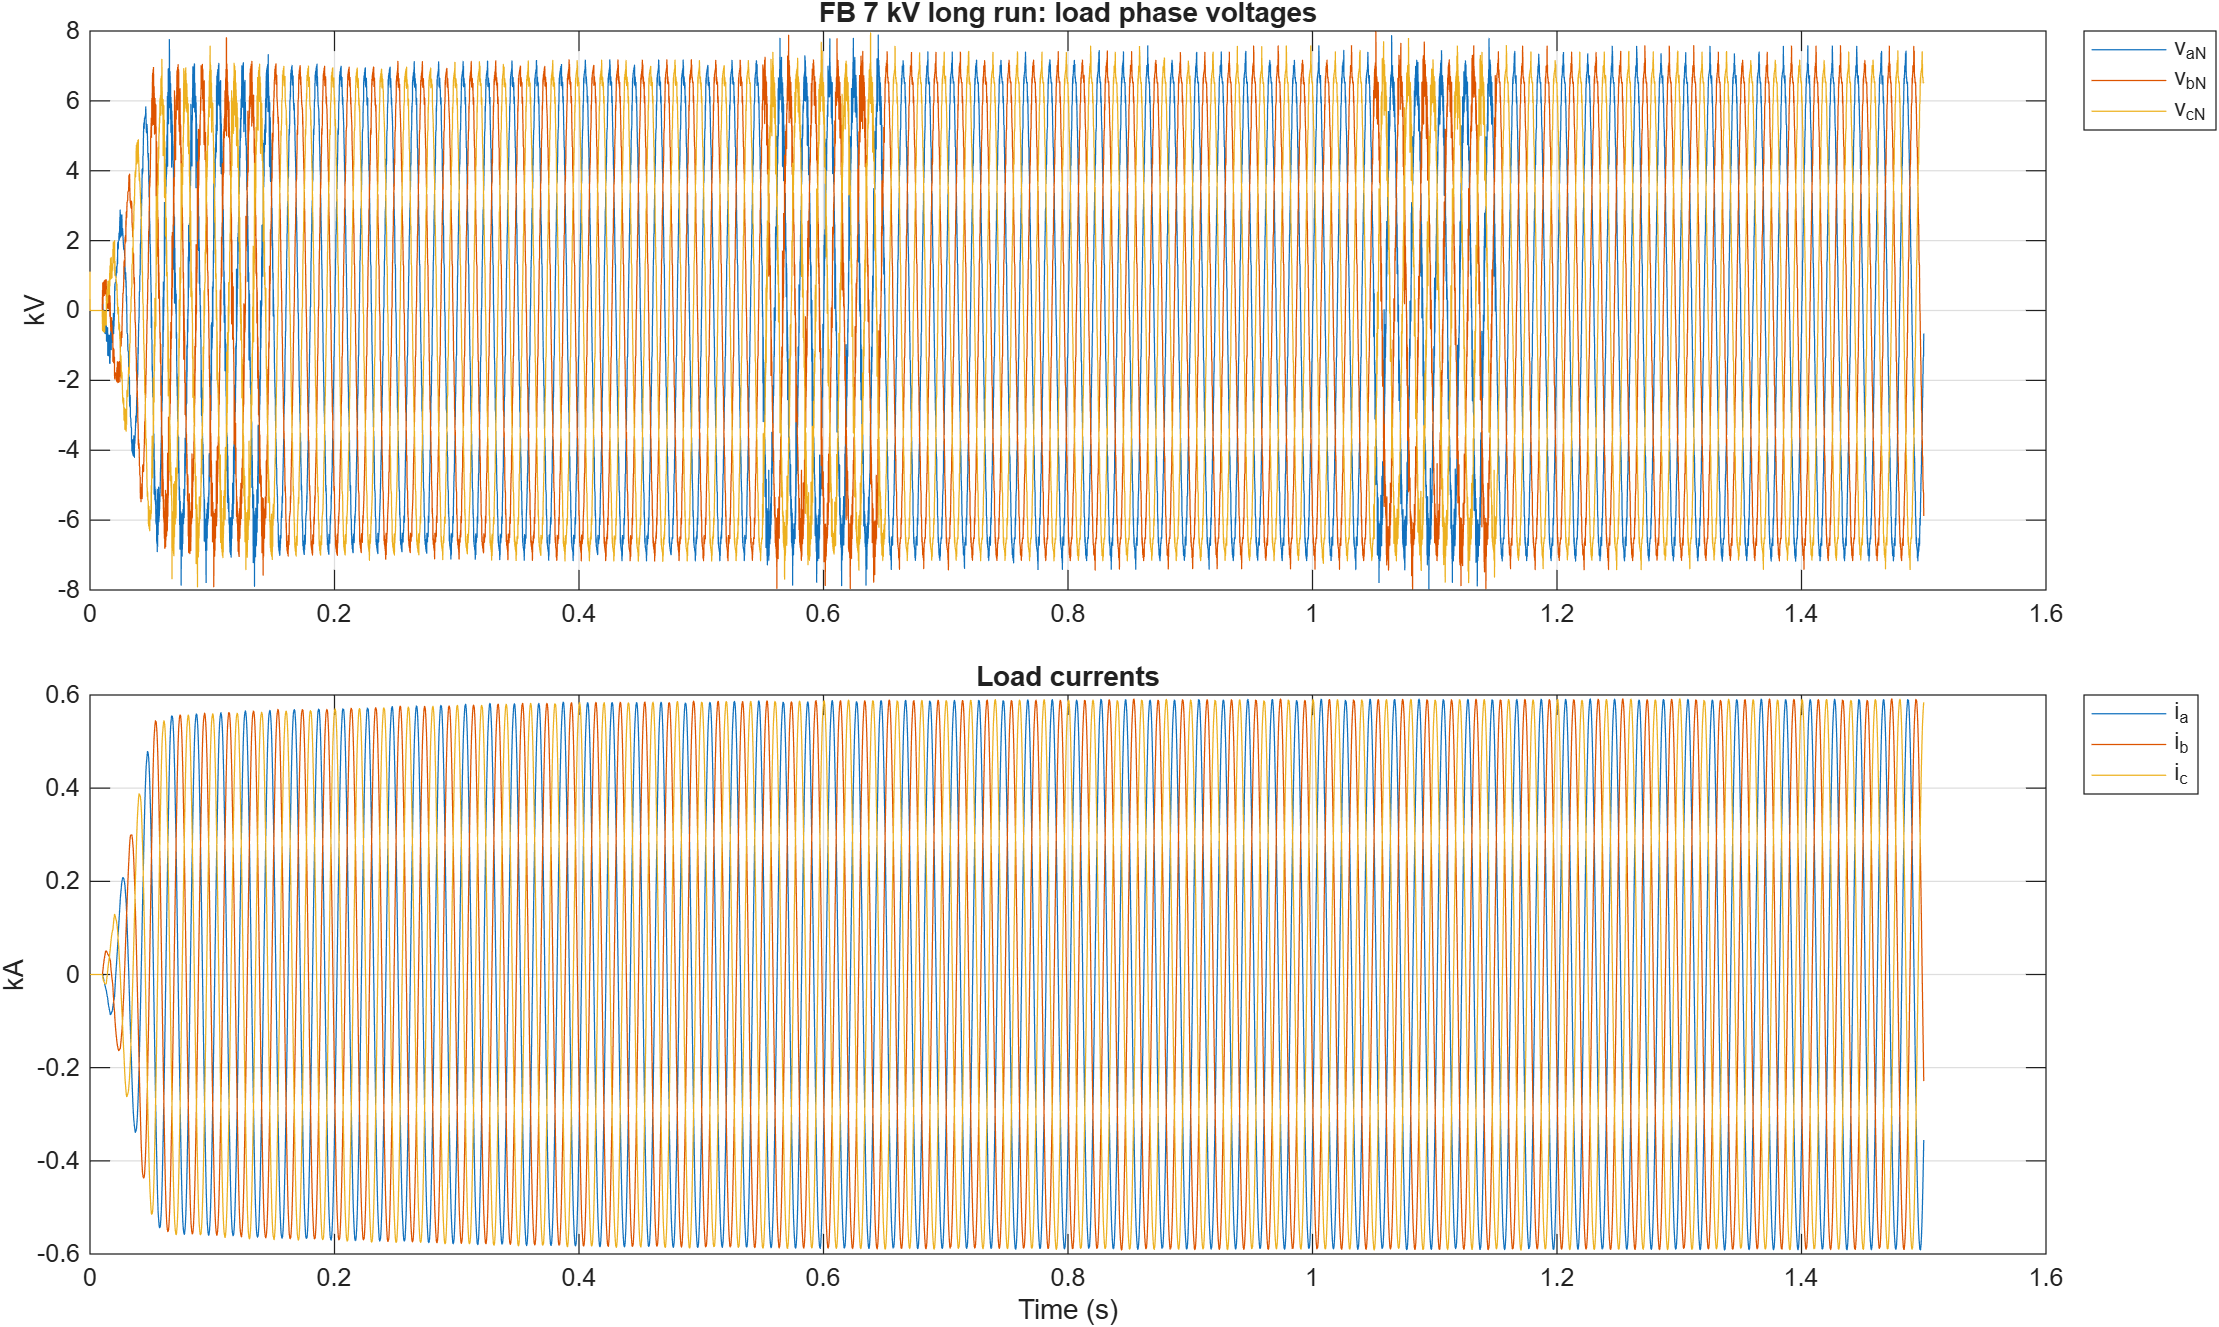
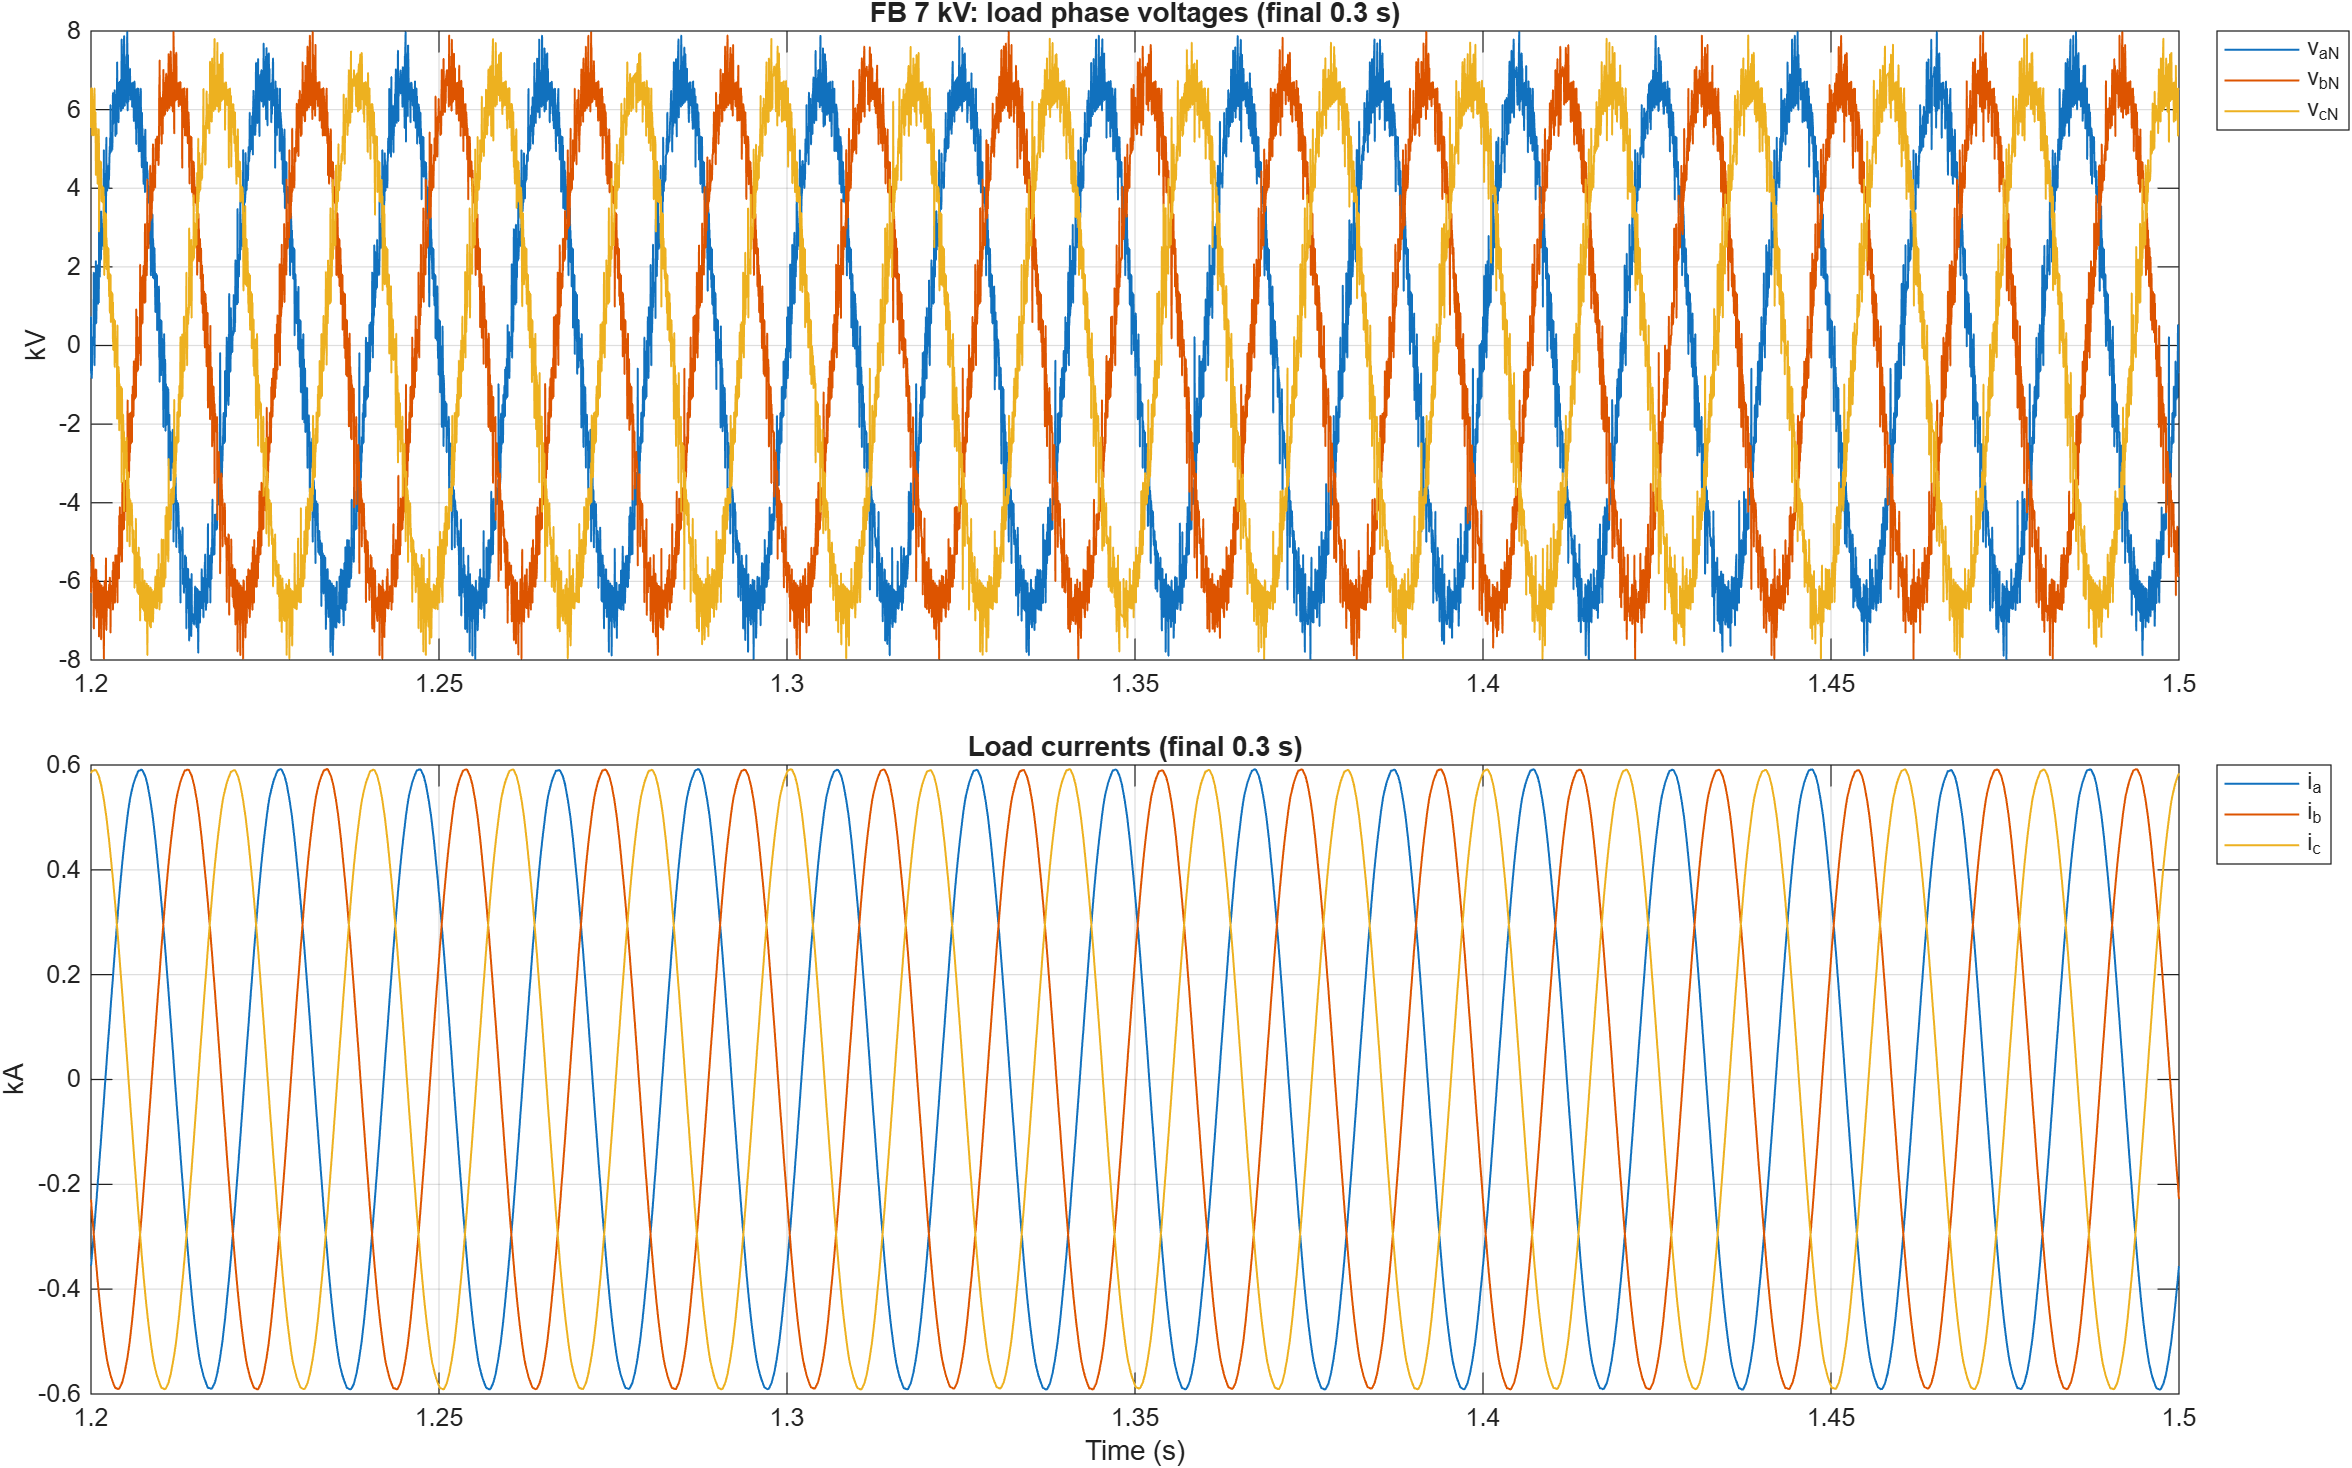
Improve README rendering and figures

diff --git a/scripts/analyze_mmc_scaled.m b/scripts/analyze_mmc_scaled.m
@@ -299,12 +299,18 @@ end
 
 function makeCapabilityDiagnostic(projectRoot,Vdc,VarmHB,VarmFB)
 requiredPositiveArm = Vdc/2+7e3;
-figure('Color','w','Position',[100 100 900 520]);
-values = [VarmHB,VarmFB,requiredPositiveArm]/1e3;
-bar(categorical({'FB at 1 kV/cell','FB at 1.5 kV/cell','7 kV required'}),values);
-ylabel('Positive arm capability (kV)'); grid on;
-title('Full-bridge topology still requires sufficient installed arm voltage');
-text(1:3,values+0.3,compose('%.1f kV',values),'HorizontalAlignment','center');
+figure('Color','w','Position',[100 100 1100 650]);
+values = [VarmHB,VarmFB]/1e3;
+bars = bar(1:2,values,0.62,'FaceColor','flat');
+bars.CData = [0.85 0.33 0.10;0.47 0.67 0.19];
+xticks(1:2); xticklabels({'10 cells at 1.0 kV/cell','10 cells at 1.5 kV/cell'});
+ylabel('Available positive arm voltage (kV)'); grid on; ylim([0 17]);
+yline(requiredPositiveArm/1e3,'--k','+12 kV required', ...
+    'LineWidth',1.5,'LabelHorizontalAlignment','left');
+title('Installed positive arm-voltage requirement for 7 kV phase-voltage operation');
+subtitle('Vdc = 10 kV; required arm-reference range is -2 kV to +12 kV');
+text(1:2,values+0.35,compose('%.1f kV',values), ...
+    'HorizontalAlignment','center','FontWeight','bold');
 exportgraphics(gcf,fullfile(projectRoot,'figures', ...
     'fb_installed_voltage_diagnostic.png'),'Resolution',180); close(gcf);
 end

diff --git a/scripts/analyze_fb_7kV_long.m b/scripts/analyze_fb_7kV_long.m
@@ -85,11 +85,11 @@ tp = fullTime(plotIndex);
 
 figure('Color','w','Position',[100 100 1300 800]);
 tiledlayout(2,1,'TileSpacing','compact');
-nexttile; plot(tp,data.v_phase_actual.data(plotIndex,:)/1e3); grid on;
-ylabel('kV'); title('FB 7 kV long run: load phase voltages');
+nexttile; plot(t,v/1e3,'LineWidth',0.8); grid on; xlim([1.2 1.5]);
+ylabel('kV'); title('FB 7 kV: load phase voltages (final 0.3 s)');
 legend('v_{aN}','v_{bN}','v_{cN}','Location','bestoutside');
-nexttile; plot(tp,data.i_load.data(plotIndex,:)/1e3); grid on;
-xlabel('Time (s)'); ylabel('kA'); title('Load currents');
+nexttile; plot(t,i/1e3,'LineWidth',0.8); grid on; xlim([1.2 1.5]);
+xlabel('Time (s)'); ylabel('kA'); title('Load currents (final 0.3 s)');
 legend('i_a','i_b','i_c','Location','bestoutside');
 exportgraphics(gcf,fullfile(project_root,'figures', ...
     'fb_7kV_long_output_voltage_current.png'),'Resolution',180); close(gcf);

diff --git a/README.md b/README.md
@@ -11,16 +11,13 @@ negative submodule insertion determine the maximum achievable AC phase voltage?
 
 For one phase leg,
 
-\[
-v_{phase}=\frac{v_{lower}-v_{upper}}{2},
-\]
+`v_phase = (v_lower - v_upper) / 2`
 
 with arm references
 
-\[
-v_{upper,ref}=\frac{V_{dc}}{2}-v_{phase,ref},\qquad
-v_{lower,ref}=\frac{V_{dc}}{2}+v_{phase,ref}.
-\]
+`v_upper_ref = Vdc/2 - v_phase_ref`
+
+`v_lower_ref = Vdc/2 + v_phase_ref`
 
 The models contain explicit switching IGBTs and antiparallel diodes, individual
 submodule capacitors, arm reactors, nearest-level modulation (NLM), and
@@ -30,7 +27,7 @@ source is used to create the reported output.
 ## System parameters
 
 | Parameter | HB-MMC | FB-MMC |
-|---|---:|---:|
+| --- | ---: | ---: |
 | DC link | 10 kV | 10 kV |
 | Submodules per arm | 10 | 10 |
 | Capacitor reference | 1.0 kV | 1.5 kV |
@@ -44,9 +41,7 @@ source is used to create the reported output.
 An HB submodule produces only 0 or +Vc. Both arm references must remain
 nonnegative, giving the conventional limit
 
-\[
-|v_{phase}|\lesssim V_{dc}/2.
-\]
+`|v_phase| <= Vdc/2`
 
 For this 10 kV DC link, the HB command is therefore limited to +/-5 kV. The
 7 kV command is visibly clipped and cannot be tracked as a sinusoidal 7 kV
@@ -54,10 +49,9 @@ phase voltage.
 
 An FB submodule produces +Vc, 0, or -Vc. At a 7 kV phase-voltage peak,
 
-\[
-v_{upper,ref}=5-7=-2\text{ kV},\qquad
-v_{lower,ref}=5+7=12\text{ kV}.
-\]
+`v_upper_ref = 5 - 7 = -2 kV`
+
+`v_lower_ref = 5 + 7 = 12 kV`
 
 The FB converter therefore needs both negative insertion capability and enough
 installed positive arm voltage. Ten 1 kV cells would provide only 10 kV and
@@ -66,21 +60,15 @@ would still be insufficient. Ten 1.5 kV cells provide +/-15 kV, making the
 
 Inserted counts follow the same distinction. For HB,
 
-\[
-k_{upper}+k_{lower}\approx N=10.
-\]
+`k_upper + k_lower ~= N = 10`
 
 For FB, counts are signed and approximately satisfy
 
-\[
-(k_{upper}+k_{lower})V_{c,FB}\approx V_{dc},
-\]
+`(k_upper + k_lower) * Vc_FB ~= Vdc`
 
 so
 
-\[
-k_{upper}+k_{lower}\approx 10/1.5=6.67.
-\]
+`k_upper + k_lower ~= 10 / 1.5 = 6.67`
 
 The absolute FB counts do not need to sum to N.
 
@@ -97,9 +85,16 @@ Detailed numerical results are kept in the text and CSV files under `results/`.
 
 ## Important figures
 
-### Installed arm-voltage requirement
+### Installed positive arm-voltage requirement for 7 kV phase-voltage operation
 
 ![Installed arm-voltage diagnostic](figures/fb_installed_voltage_diagnostic.png)
+
+To produce a 7 kV phase-voltage peak with a 10 kV DC link, the lower arm must
+reach about +12 kV while the upper arm must reach about -2 kV. Negative
+insertion alone is therefore not sufficient: the FB converter also needs
+enough installed positive arm voltage. Ten cells at 1.0 kV/cell provide only
+10 kV and cannot meet the +12 kV requirement. Ten cells at 1.5 kV/cell provide
+15 kV, making the operating point feasible.
 
 ### HB 7 kV limiter
 
@@ -120,6 +115,18 @@ Detailed numerical results are kept in the text and CSV files under `results/`.
 ### FB 1.5 s output voltage and current
 
 ![FB long-run output](figures/fb_7kV_long_output_voltage_current.png)
+
+Only the final 1.2-1.5 s window is shown so the steady-state voltage and current
+waveforms remain readable.
+
+### FB capacitor-voltage balancing at 7 kV
+
+![All FB submodule capacitor voltages](figures/capacitor_voltages_7kV.png)
+
+The individual FB submodule capacitor voltages remain clustered around the
+1.5 kV target. Their bounded spread demonstrates effective Sort-and-Select
+balancing in the 7 kV case and shows that negative insertion is achieved
+without losing capacitor-voltage balance.
 
 ## How to run
 